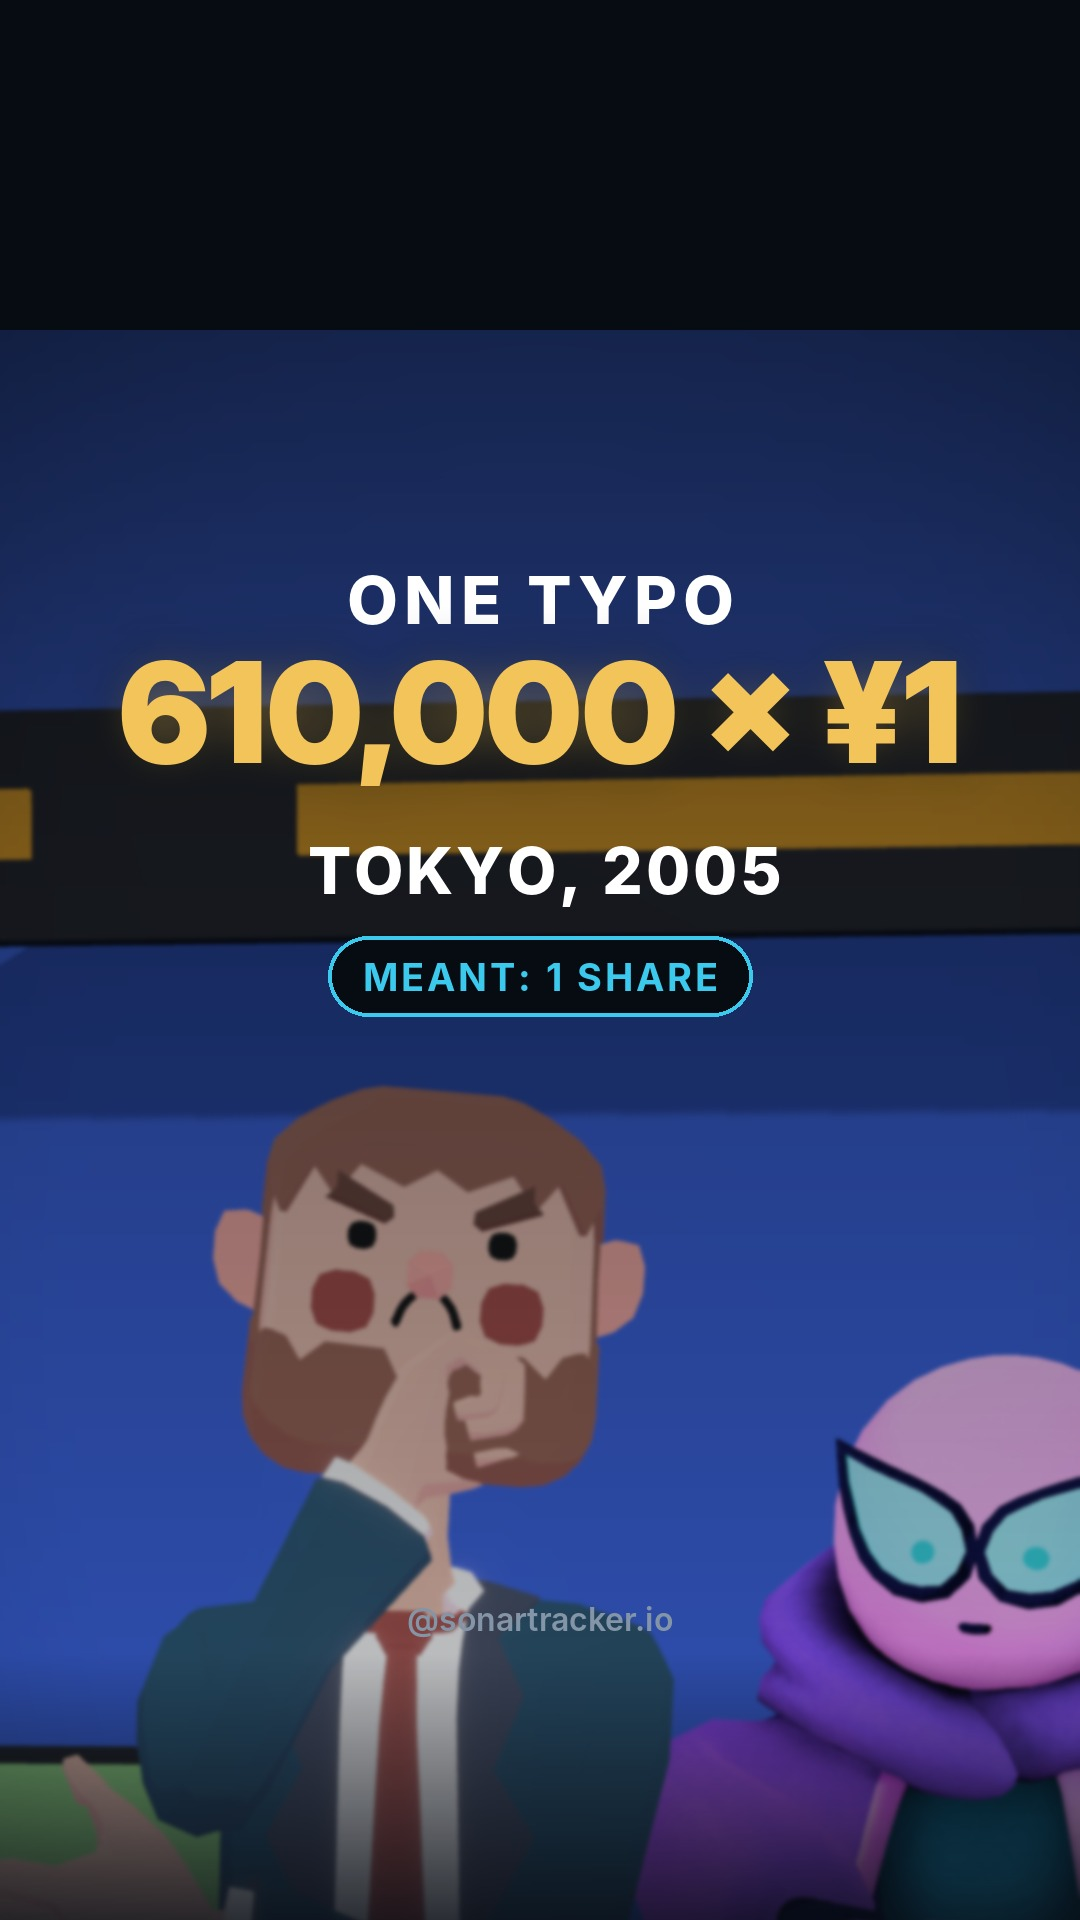
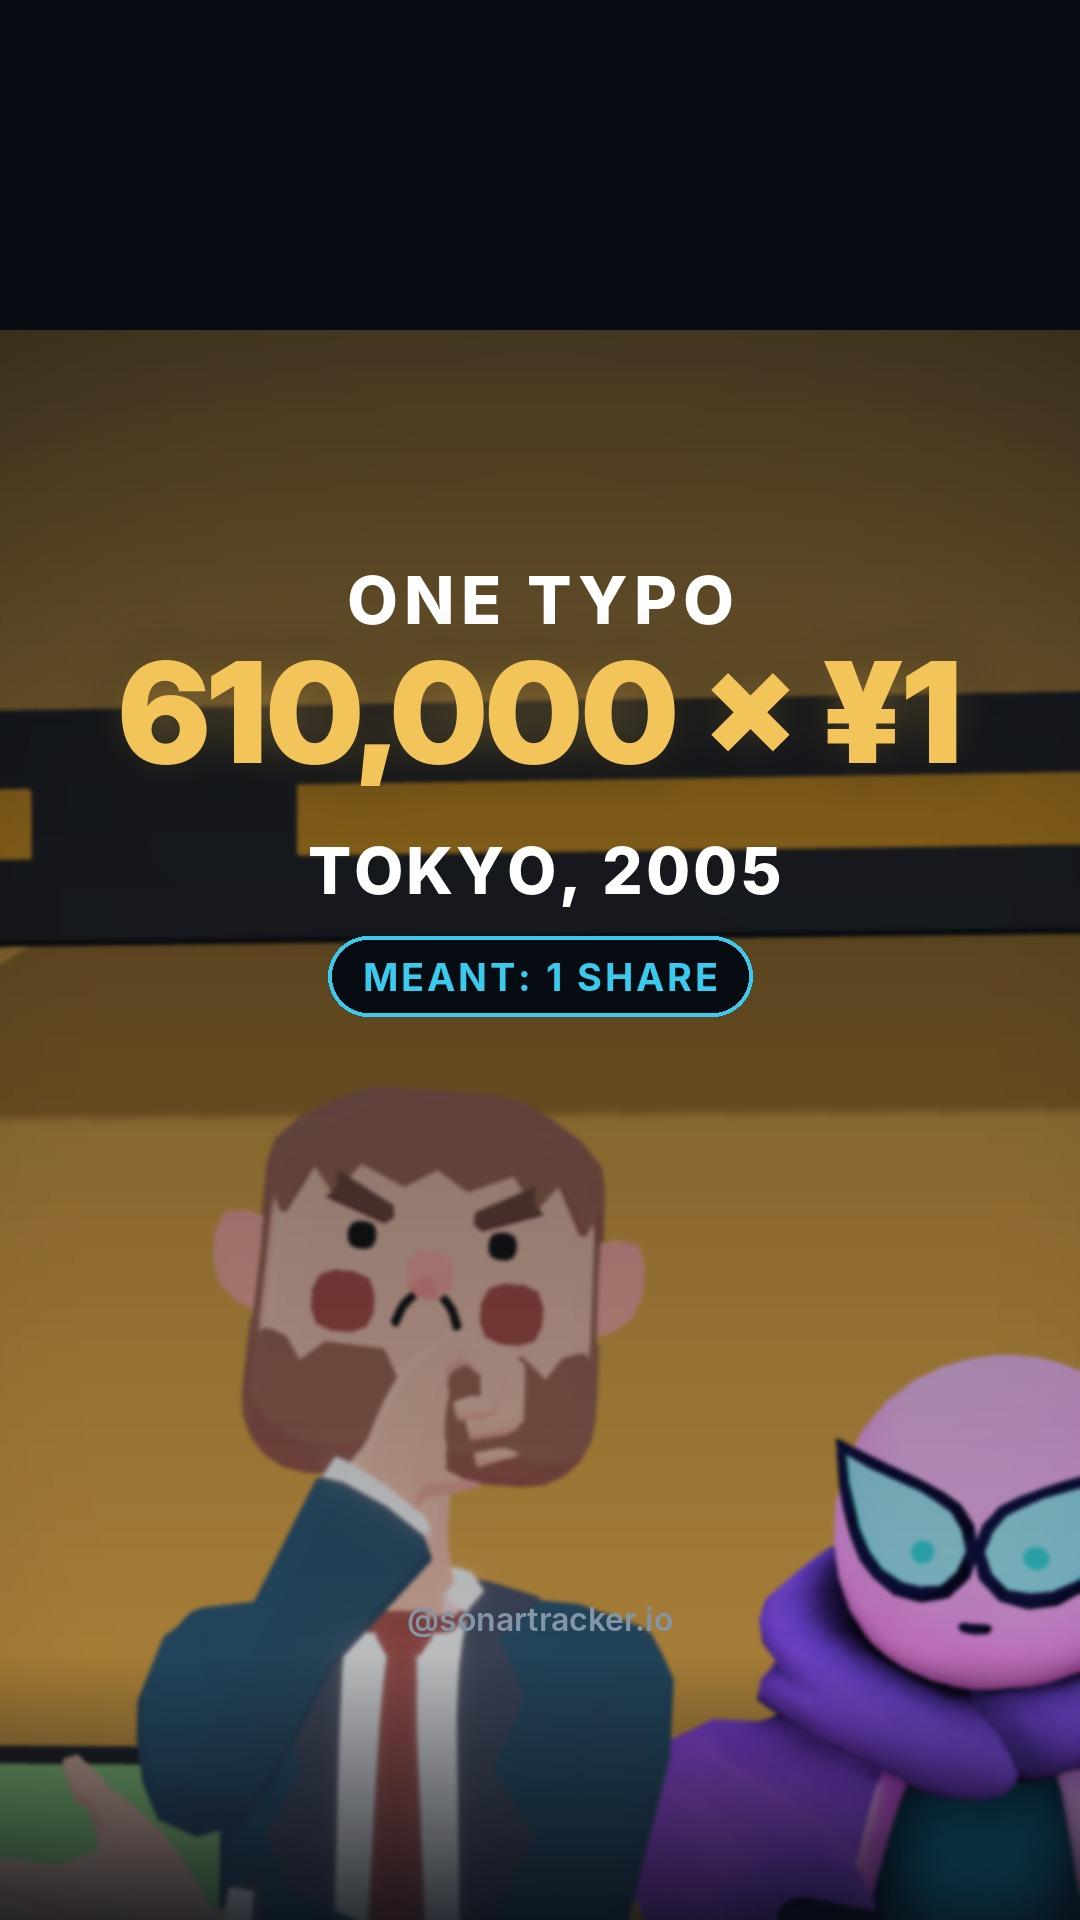
episode: 2026-11-23-one-share-one-yen: opening room recoloured (gate: place differs from the last 3), final review
Claude-Session: https://claude.ai/code/session_01UyS4LW5q96D1YK79BcKRjD

diff --git a/episodes/2026-11-23-one-share-one-yen/review.md b/episodes/2026-11-23-one-share-one-yen/review.md
@@ -2,21 +2,46 @@ VERDICT: PASS WITH NOTES
 
 Must fix: none.
 
-Checked against research.md (all match): "TOKYO · 8 DEC 2005" and "610,000 SHARES × ¥1" (fact 1), monitor "610,000 shares · ¥1 each" and "¥610,000 what it was worth" (fact 1), "SURE? this order looks abnormal" (fact 2), "14,500 shares that exist / you offered 610,000" and "OVER 40×" (fact 3), "CANCEL attempt 1" with no total count (fact 4), "TOKYO STOCK EXCHANGE" bug (fact 5), "FILLING" / "FULL PRICE not ¥1" (fact 6), "≈ ¥40 BILLION" (fact 7), Quote card "¥10.7 billion" and spoken "about a quarter" (fact 9, 10.7/40.7 = 26%). The s21 Shot is a real crop of the AP/CBS article (assets/cbs_2005.png), not a mock-up. The s23 Quote card credits The Japan Times, 24 July 2013: I re-read that article and its first sentence does say the High Court "ordered the Tokyo Stock Exchange" to pay the ¥10.7 billion; research.md files that wording under the 2009 article, so the tail of the quote is confirmed only in substance. Caption numbers ($340 million, 10.7 billion, president resigned) are all in research.md. No prediction, no advice. The trader is not named and no joke is stated as a fact about a real person.
+Checked against research.md (all match, all sourced):
+- "TOKYO · 8 DEC 2005", "610,000 SHARES × ¥1", monitor "610,000 shares · ¥1 each" / "ORDER TO SELL · J-COM" (fact 1, JT-2013).
+- Monitor "ONE SHARE ¥610,000" (fact 1, AP-2005 / Finextra).
+- Monitor "WARNING · this order looks abnormal" (fact 2, JTW-2005).
+- Monitor "SHARES THAT EXIST 14,500 · you offered 610,000" and tag "OVER 40×" (fact 3; 610,000 / 14,500 = 42).
+- "TOKYO STOCK EXCHANGE" + "it can't cancel your order" (fact 5); two cancel attempts shown, sources say three to four (fact 4).
+- "≈ ¥40 BILLION" (fact 7). Quote card "ordered the Tokyo Stock Exchange to pay about ¥10.7 billion" is JT-2013's exact wording;
+  "about a quarter" = 10.7 / 40.7 = 26% (fact 9).
+- s21 is a real crop of the AP/CBS article (assets/cbs_2005.png), correctly sourced and dated 9 Dec 2005.
+- Caption: $340 million (Risk.net $343M), president resigned (fact 8), ¥10.7 billion: all in research.md.
+- No price prediction, no advice; the trader is not named; the jokes are about "you", not the real employee.
+- 57.6 s, 10 concrete facts, the real case named with date and number, ends on this story's one step.
 
-Skit checks:
-- Story, not a list: you want to sell one share, it escalates (warning ignored, 40 times too many, cancel one, cancel two), it turns (the exchange cannot cancel), and it ends on the enter key locked in a cage, which calls back to the key press in the opening. Pass.
-- On-screen text: 7 overlay labels (Tokyo date, 610,000 × ¥1, THE POP-UP, OVER 40×, TOKYO STOCK EXCHANGE, ≈ ¥40 BILLION, ENTER) and no stamps, inside the limit. I counted the 8 monitor screens as props in the world, not labels; see note 1.
-- Fresh: read signing-screen, the-bedroom and two-pizzas. No set-up, catchphrase, gag or ending comes back. No clapping, jumping or dancing. Stonks as the pop-up is new. No swearing is spoken ("with swearing" is described, which is funnier).
-- Funniest: "A warning pops up. / You sure? / You have never read a pop-up in your life. / I'm a professional." That is the one to send to a friend. "Attempt two, with swearing. / Rude." is a close second. Weakest: "Unplug Tokyo.", which lands as a line but has no picture behind it (he just points at the monitor).
-- Place: a trading desk with a ceiling beam that goes red when it goes wrong, plus a Tokyo skyline and a server rack. It reads as this story's place, not yesterday's vault or bedroom.
-- Sound: not judged. I reviewed frames and timings only; the storyboard has effects on 12 scenes, but I did not listen to the mix.
+Skit questions:
+- Story or list: a story. You want to sell one share; it escalates (warning ignored, 40× the company, cancel one, cancel two);
+  it turns (the exchange's bug, strangers buying); it ends on the enter key locked in a cage, which calls back to the hands
+  on the keyboard in s2.
+- On-screen text: 7 tags, 0 stamps (monitor text counted as picture, per script-guide "Skits" point 4). None is a sentence the
+  voice is saying. Within the limit.
+- Fresh: read signing-screen, the-bedroom, two-pizzas. No set-up, catchphrase, gag or ending comes back. Stonks as the pop-up is
+  new; no clapping, jumping or dancing. Office genre and countdown engine unused by the last two.
+- Funniest: "You have never read a pop-up in your life." / "I'm a professional." (s8–s9), the one to send to a friend.
+  Weakest: "Unplug Tokyo." (s20): it is cut off by the receipt 2 s later with nothing shown being unplugged.
+- Swearing: none spoken ("Attempt two, with swearing" is described, not said). Fine.
+- Place: a trading desk with the Tokyo night skyline and the exchange's server rack; this story's place, and the red alarm
+  lighting from s10 to s22 sets it apart from yesterday's rooms.
+- Sound: reviewed from frames and timings only, not listened to; no "GET OUT!" button is used, which suits this ending.
+- Do the jokes land: yes. The pop-up having feelings ("Now I'm sure.", "Rude.") is a clear, new running bit and the facts stay
+  readable around it.
 
 Notes for next time:
-1. Monitor text is doing a label's job. With the 8 screens added to the 7 labels there are 15 pieces of text, and two of them ("FILLING · strangers are buying", "READ · the box") repeat the voice word for word. Next time let two or three screens carry a picture (a fill counter racing up, a row of buy orders) instead of a word.
-2. Captions vanish against the ceiling beam and at the light-to-dark cut: at 12.1 s "swapped the numbers." is dark text on the black beam, and at 19.1 s "professional" is dark on the dark frame. Keep the beam below the caption band in close-ups and switch caption colour on the cut frame.
-3. s3 (6.0–7.5 s) shows Tokyo at night with a moon, but the AP text shown at s21 says "Thursday morning". Make the establishing shot daytime when the source gives the time of day.
-4. s21 (40.5–46.7 s): while the voice says "Mizuho Securities, on the eighth of December" the box sits on "intended to sell 1 share at 610,000 yen". Box "Mizuho Securities" first, then the numbers. It is also the one 6-second hold in the reel; a second receipt or a cut would keep the pace.
-5. s25 (53.1–54.7 s): the punchline picture is hard to read. The key in the cage is a plain white block and Stonks is half out of the frame on the right by 54.7 s. Make the key look like an enter key (the arrow glyph, the orange colour from the keyboard) and keep Stonks fully in shot.
+1. s21 (40.5–46.7 s): the article card fills only the middle fifth of the frame for 6.2 s with empty space under it, and the
+   body text is small on a phone. Make the crop taller or zoom to ~1.4 on the highlighted line.
+2. s21: the voice says "Mizuho Securities, on the eighth of December" while the underline and box sit on the share numbers.
+   Put the first mark on "Mizuho Securities" and the second on the numbers.
+3. Captions lose contrast for a few frames where they cross the dark ceiling beam or a light-to-dark theme change (s5 at 12.1 s
+   "swapped the numbers.", s9 at 19.1 s "professional"). Keep the beam out of the caption band, or give captions a backing plate.
+4. s16 (27.7–31.4 s): the server rack holds 3.7 s with only one red block changing while the key mechanism is explained. Show
+   the cancel request arriving and bouncing off.
+5. s20 "Unplug Tokyo.": give the line a picture (a hand on a plug, the skyline going dark) so the weakest joke gets a payoff.
+   In s25 the caged enter key reads as a plain white block; model it as a visible keycap.
 
-Scores 1–5: sync 4, detail/realism 4, hook 5, beginner clarity 5, accuracy 5, phone readability 4
+Scores 1–5: sync 4, detail/realism 4, hook 5, beginner clarity 4, accuracy 5, phone readability 4
